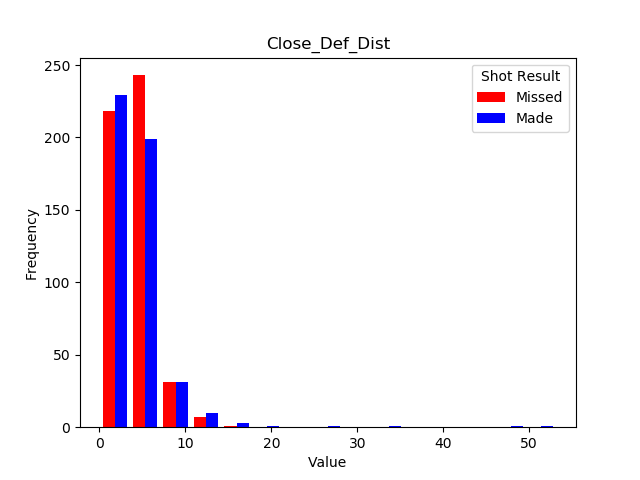
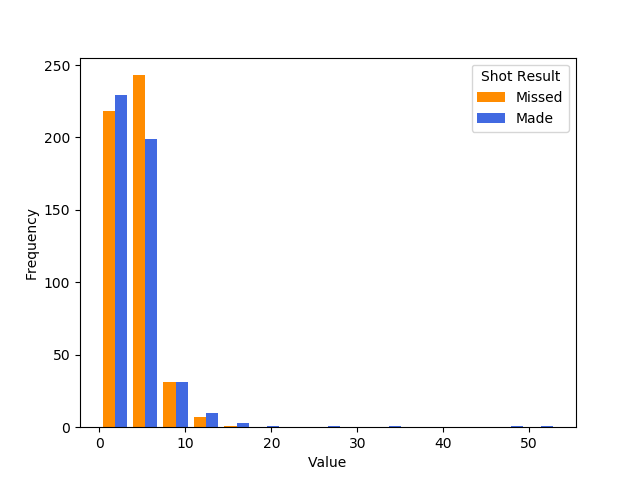
incorporated feedback and tidy'd scripts 1-4

diff --git a/src/04_analysis_plots_script.py b/src/04_analysis_plots_script.py
@@ -1,12 +1,13 @@
 #!/usr/bin/env python
-# 02_EDA.py
+# 04_EDA.py
 # Alex Hope and Jes Simkin, Nov, 2018
 #
 # This script produces a plot showing best decision tree depth and a plot
-#   showing feature importances.
+#   showing feature importances. It takes two csvs from sript 3, and produces
+#   two plots.
 #
 # Usage:
-#Python src/04_analysis_plots_script.py data/accuracies_lebron_james.csv data/features_lebron_james.csv "lebron james" results/figs/
+#Python src/04_analysis_plots_script.py data/accuracies_lebron_james.csv data/features_lebron_james.csv results/figs/train-test-acc_lebron_james.png results/figs/best_features_lebron_james.png
 
 import argparse
 import pandas as pd
@@ -17,23 +18,22 @@ import matplotlib.pyplot as plt
 parser = argparse.ArgumentParser()
 parser.add_argument('input_file1')
 parser.add_argument('input_file2')
-parser.add_argument('player')
-parser.add_argument('output_dir')
+parser.add_argument('output_file1')
+parser.add_argument('output_file2')
+
 
 args = parser.parse_args()
 
 def main():
-    #add an under score for file slug
-    name_underscored= args.player.replace(" ", "_")
 
     #read in data and plot train and test accuracies
     accuracy_df = pd.read_csv(args.input_file1)
-    fig, share = plt.subplots()
-    plt.plot(accuracy_df[['depths']],accuracy_df[['train_accuracy']],label='train')
-    plt.plot(accuracy_df[['depths']],accuracy_df[['test_accuracy']],label='test')
+    plt.plot(accuracy_df[['depths']],accuracy_df[['train_accuracy']],label='Training Set')
+    plt.plot(accuracy_df[['depths']],accuracy_df[['test_accuracy']],label='Test Set')
     plt.xlabel('Max Depth')
     plt.ylabel('Accuracy')
-    plt.savefig(args.output_dir+"train-test-acc"+"_"+args.player)
+    plt.legend(title= "Analysis Data Sets")
+    plt.savefig(args.output_file1)
     #clear plt canvas for next plot
     plt.clf()
 
@@ -45,9 +45,7 @@ def main():
     plt.bar(feature_df['feature names'],feature_df['importances'])
     plt.xticks(feature_df['feature names'], rotation= 45)
     plt.ylabel('Feature Importance')
-    #plt.subplots_adjust(bottom=0.1)
     plt.tight_layout()
-    plt.savefig(args.output_dir+"best_features_"+args.player)
-
+    plt.savefig(args.output_file2)
 
 main()

diff --git a/src/03_machine_learning.py b/src/03_machine_learning.py
@@ -4,10 +4,11 @@
 # Alex Hope and Jes Simkin Nov, 2018
 #
 # This script takes a csv, runs decision tree analysis and outputs two csvs:
-#   one for later creating train set/test set depth and accuracy plotting, and
+#   one for later creating model depth and accuracy plotting, and
 #   another for plotting feature importances.
 #
-# Usage: Python src/03_machine_learning.py data/tidy_data_lebron_james.csv data/accuracies_lebron_james.csv data/features_lebron_james.csv
+# Usage: Python src/03_machine_learning.py data/tidy_data_lebron_james.csv
+##   data/accuracies_lebron_james.csv data/features_lebron_james.csv
 
 import argparse
 import pandas as pd
@@ -32,14 +33,14 @@ def main():
     y=player_data[['SHOT_RESULT']]
 
     #Split Dataset by 80-20
-    Xtrain,Xtest,ytrain,ytest = train_test_split(X,y,test_size=0.2)
+    Xtrain,Xtest,ytrain,ytest = train_test_split(X,y,test_size=0.2, random_state=231)
 
     #Try out different k values
     depths= range(1,40)
     train_accuracy=[]
     test_accuracy=[]
     for i in depths:
-        player_shot_model= tree.DecisionTreeClassifier(max_depth=i)
+        player_shot_model= tree.DecisionTreeClassifier(max_depth=i, random_state=231, class_weight="balanced")
         player_shot_model.fit(Xtrain,ytrain)
         train_accuracy.append(player_shot_model.score(Xtrain,ytrain))
         player_shot_model.predict(Xtest)

diff --git a/src/02_EDA.py b/src/02_EDA.py
@@ -4,7 +4,7 @@
 #
 # This script produces histograms for each decision tree feature.
 #
-# Usage: Python src/02_EDA.py data/tidy_data_lebron_james.csv "lebron_james"
+# Usage: Python src/02_EDA.py data/tidy_data_lebron_james.csv results/figs/EDA "lebron_james"
 
 
 import argparse
@@ -14,6 +14,7 @@ import numpy as np
 
 parser = argparse.ArgumentParser()
 parser.add_argument('input_file')
+parser.add_argument('output_file')
 parser.add_argument('player')
 args = parser.parse_args()
 
@@ -24,7 +25,6 @@ def main():
     #add an under score for file slug
     name_underscored= args.player.replace(" ", "_")
 
-
     #create histogram for each feature and save png
     for feature in features:
 
@@ -33,11 +33,10 @@ def main():
 
         fig, share = plt.subplots()
 
-        plt.hist([missed, made], color=['red', 'blue'], label=['Missed','Made'], bins = 15)
+        plt.hist([missed, made], color=['darkorange', 'royalblue'], label=['Missed','Made'], bins = 15)
         plt.legend(title= "Shot Result")
-        plt.title(feature.title())
         plt.xlabel("Value")
         plt.ylabel("Frequency")
-        plt.savefig("results/figs/EDA_"+feature+"_"+name_underscored)
+        plt.savefig(args.output_file+"_"+feature+"_"+name_underscored)
 
 main()
